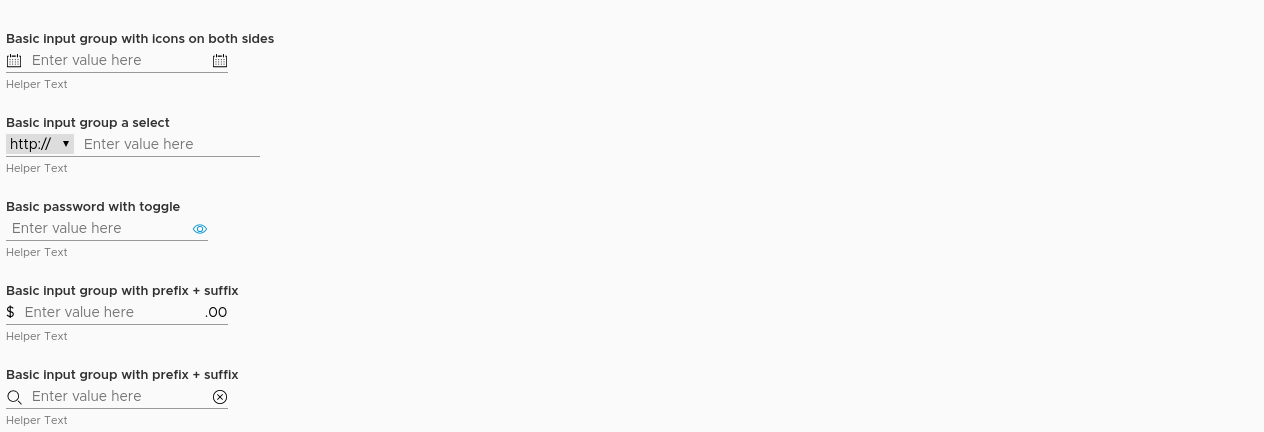
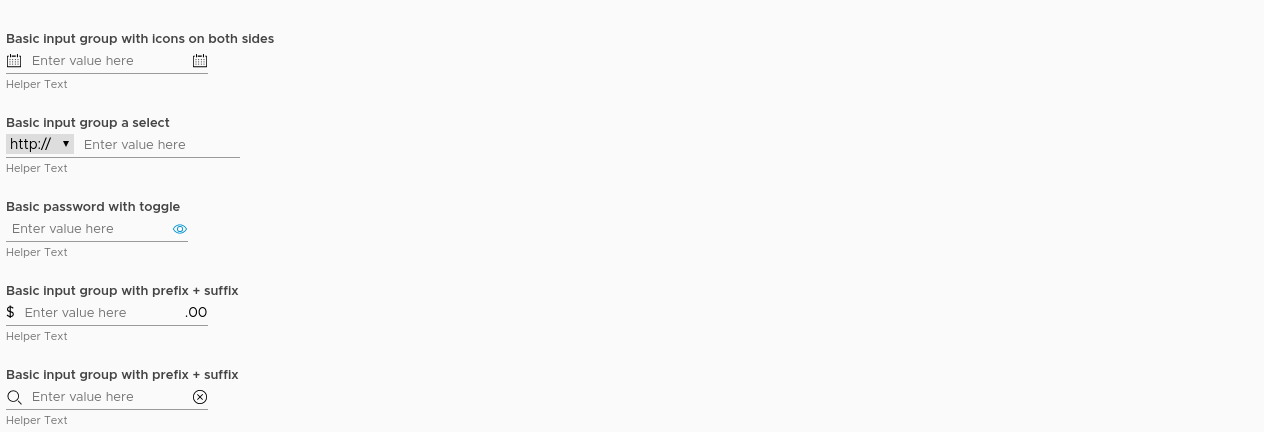
gemini

diff --git a/gemini/tests/set2/forms.js b/gemini/tests/set2/forms.js
@@ -12,6 +12,7 @@ gemini.suite('forms', (child) => {
     gemini.suite('form-vertical', (child) => {
         child.setUrl('/forms/layout-vertical')
             .before((actions, find) => {
+                actions.setWindowSize(1200, 4000)
                 actions.waitForElementToShow('.clr-form', WAIT_TIME);
             })
             .setCaptureElements('.clr-form')
@@ -21,6 +22,7 @@ gemini.suite('forms', (child) => {
     gemini.suite('form-horizontal', (child) => {
         child.setUrl('/forms/layout-horizontal')
             .before((actions, find) => {
+                actions.setWindowSize(1200, 4000)
                 actions.waitForElementToShow('.clr-form', WAIT_TIME);
             })
             .setCaptureElements('.clr-form')
@@ -39,6 +41,7 @@ gemini.suite('forms', (child) => {
     gemini.suite('form-vertical-grid', (child) => {
         child.setUrl('/forms/layout-vertical-grid')
             .before((actions, find) => {
+                actions.setWindowSize(1200, 4000)
                 actions.waitForElementToShow('.clr-form', WAIT_TIME);
             })
             .setCaptureElements('.clr-form')
@@ -48,6 +51,7 @@ gemini.suite('forms', (child) => {
     gemini.suite('form-horizontal-grid', (child) => {
         child.setUrl('/forms/layout-horizontal-grid')
             .before((actions, find) => {
+                actions.setWindowSize(1200, 4000)
                 actions.waitForElementToShow('.clr-form', WAIT_TIME);
             })
             .setCaptureElements('.clr-form')
@@ -65,6 +69,60 @@ gemini.suite('forms', (child) => {
 
     gemini.suite('form-input-group', (child) => {
         child.setUrl('/forms/input-group')
+            .before((actions, find) => {
+                actions.waitForElementToShow('.clr-form', WAIT_TIME);
+            })
+            .setCaptureElements('.clr-form')
+            .capture('default');
+    });
+
+    gemini.suite('form-checkbox', (child) => {
+        child.setUrl('/forms/checkbox')
+            .before((actions, find) => {
+                actions.waitForElementToShow('.clr-form', WAIT_TIME);
+            })
+            .setCaptureElements('.clr-form')
+            .capture('default');
+    });
+
+    gemini.suite('form-file', (child) => {
+        child.setUrl('/forms/file')
+            .before((actions, find) => {
+                actions.waitForElementToShow('.clr-form', WAIT_TIME);
+            })
+            .setCaptureElements('.clr-form')
+            .capture('default');
+    });
+
+    gemini.suite('form-radio', (child) => {
+        child.setUrl('/forms/radio')
+            .before((actions, find) => {
+                actions.waitForElementToShow('.clr-form', WAIT_TIME);
+            })
+            .setCaptureElements('.clr-form')
+            .capture('default');
+    });
+
+    gemini.suite('form-select', (child) => {
+        child.setUrl('/forms/select')
+            .before((actions, find) => {
+                actions.waitForElementToShow('.clr-form', WAIT_TIME);
+            })
+            .setCaptureElements('.clr-form')
+            .capture('default');
+    });
+
+    gemini.suite('form-text', (child) => {
+        child.setUrl('/forms/text')
+            .before((actions, find) => {
+                actions.waitForElementToShow('.clr-form', WAIT_TIME);
+            })
+            .setCaptureElements('.clr-form')
+            .capture('default');
+    });
+
+    gemini.suite('form-textarea', (child) => {
+        child.setUrl('/forms/textarea')
             .before((actions, find) => {
                 actions.waitForElementToShow('.clr-form', WAIT_TIME);
             })
